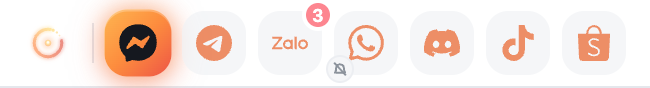
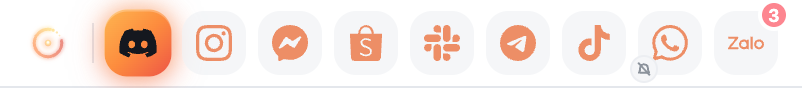
docs(readme): update for 9 services and Home features
Update README to reflect nine services and document new Home board features:
service filtering by name via `⌘/Ctrl+F` in the unbound section, and dragging
summoned tiles to reorder the rail immediately (no confirm wait). Refresh all
screenshots for the new layout. Improve capture script with deterministic badge
timing and content-aware cropping to fit the board and footer.

diff --git a/README.md b/README.md
@@ -17,7 +17,7 @@ WhatsApp, Messenger, Instagram, Telegram, Discord, Zalo, TikTok, Shopee, and Sla
 
 **Chat only.** Every other multi-service client embeds the whole site, feed and all. Goetia hides the host chrome and pins Facebook, Instagram, and TikTok to their chat paths — route away from chat and the view snaps back.
 
-**Local only.** No server, no account, no telemetry. Each service gets its own isolated `persist:<id>` session, so eight logins never see each other.
+**Local only.** No server, no account, no telemetry. Each service gets its own isolated `persist:<id>` session, so nine logins never see each other.
 
 **Badges that don't lie.** One unread recipe per service, each locked to a DOM fixture in the test suite. When a service redesigns, its tile shows a grey stale dot instead of a confident zero.
 
@@ -29,13 +29,13 @@ WhatsApp, Messenger, Instagram, Telegram, Discord, Zalo, TikTok, Shopee, and Sla
 
 ## A look around
 
-Nothing loads until you pick — a fresh install starts with every service off. Home keeps the summoned apart from the unbound, and a pick only changes which side it's on once you confirm; **Dispel** throws the edit away:
+Nothing loads until you pick — a fresh install starts with every service off. Home keeps the summoned apart from the unbound, and a pick only changes which side it's on once you confirm: the button spells out the change first (**Summon 1 · Banish 1** below), and **Dispel** throws the edit away. The unbound row filters by name, and dragging a summoned tile sets the rail order — a drop takes effect on its own, so reordering never rides along with an enable:
 
 <p align="center">
   <picture>
     <source media="(prefers-color-scheme: dark)" srcset="docs/media/welcome-dark.png">
     <img src="docs/media/welcome-light.png" width="760"
-      alt="Goetia's Home screen: three services summoned, four unbound">
+      alt="Goetia's Home screen: three services summoned, six unbound, with one staged on each side">
   </picture>
 </p>
 
@@ -45,7 +45,7 @@ Unread counts land on the rail, on the dock or taskbar, and in the tray tooltip.
   <picture>
     <source media="(prefers-color-scheme: dark)" srcset="docs/media/rail-badges-dark.png">
     <img src="docs/media/rail-badges-light.png" width="620"
-      alt="The service rail: seven tiles, an unread badge of 3, one muted">
+      alt="The service rail: nine tiles, an unread badge of 3, one muted">
   </picture>
 </p>
 
@@ -155,14 +155,14 @@ gh attestation verify Goetia-<version>-arm64.dmg --repo quyennguyenvu/goetia
 
 ### The first time you open it
 
-You'll see every service sitting under **Unbound**. Click the ones you want — they light up but stay put — then press **Summon** to bring them in. Now log in to each the normal way: scan the QR code (WhatsApp, Zalo) or type your username and password. **You only log in once per service**; Goetia remembers each account separately, even after you quit and reopen.
+You'll see every service sitting under **Choose your services**. Click the ones you want — they light up but stay put — then press **Summon** to bring them in. Now log in to each the normal way: scan the QR code (WhatsApp, Zalo) or type your username and password. **You only log in once per service**; Goetia remembers each account separately, even after you quit and reopen.
 
 Closing the window does **not** quit Goetia — it keeps running in the menu bar (Mac) or the system tray next to the clock (Windows) so notifications still arrive. To fully quit, click that icon → **Quit**, or press ⌘Q (Mac) / Ctrl+Q (Windows).
 
 ### Handy to know
 
 - **Service icons sit in a top bar** by default (each chat app already has its own left-hand column, so a second left rail would double up). Want them on the side? **Settings → Appearance → Menu position**.
-- **Add or drop services later**: press ⌘/Ctrl+0, or click the ember sigil at the head of the icon bar, for **Home**. Summoned and unbound sit in separate rows; nothing changes until you press **Summon**/**Banish**, and **Dispel** throws a selection away. Banishing keeps the login — summon it back and you're still signed in.
+- **Add or drop services later**: press ⌘/Ctrl+0, or click the ember sigil at the head of the icon bar, for **Home**. Summoned and unbound sit in separate rows; nothing changes until you press **Summon**/**Banish**, and **Dispel** throws a selection away. Banishing keeps the login — summon it back and you're still signed in. ⌘/Ctrl+F jumps to the box that filters the unbound row by name, and dragging a summoned tile reorders the icon bar right away — that one doesn't wait for **Summon**.
 - **Shortcuts**: ⌘/Ctrl+1…9 jump to a service, ⌘/Ctrl+K opens a quick switcher, ⌘/Ctrl+0 opens Home, ⌘/Ctrl+R (or F5) reloads the current service, ⌘/Ctrl+⇧+M mutes everything, right-click an icon to mute it, and drag icons to reorder them.
 - **Muting means silence, not blindness**: a muted service raises no banner and its page is silenced too, so the site's own alert sound stops as well — but its unread badge keeps counting, so you can still see what came in. Muting also silences that service's calls and voice notes while it's muted.
 - **On a Mac, allow notifications the first time**: System Settings → Notifications → **Goetia** → turn on **Allow Notifications**.
